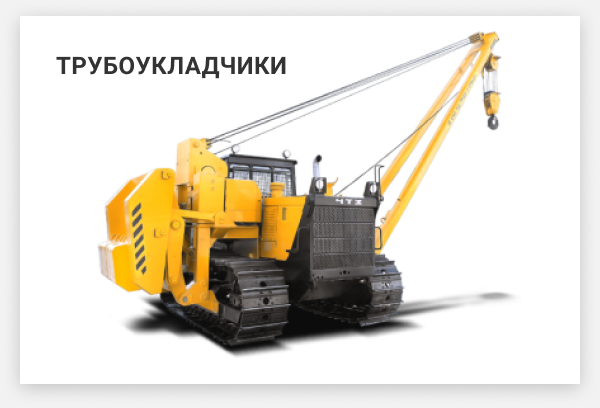
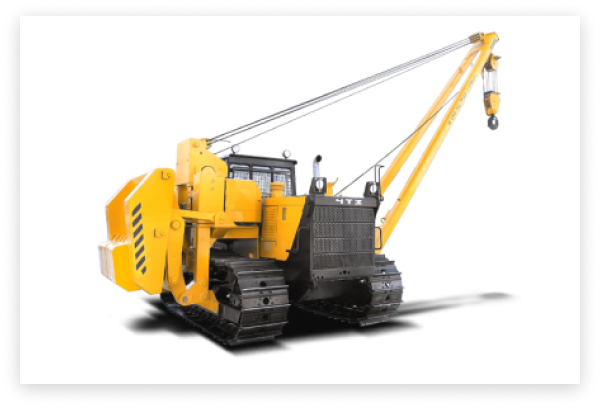
fix catalog tech card

Changed region(s): [[0.09, 0.1176, 0.48, 0.2059]]

diff --git a/src/views/Favourites.vue b/src/views/Favourites.vue
@@ -4,7 +4,8 @@
     <a class="select-all" href="">Удалить все</a>
 
     <div class="favourite-card" v-for="item of cartItems" :key="item.id">
-      <div class="favourite-card-img">{{ item.image }}</div>
+      <img class="favourite-card-img" :src="item.image" alt="" />
+
       <div class="favourite-card-title">{{ item.title }}</div>
       <input
         type="checkbox"
@@ -42,6 +43,8 @@
 <script lang="ts">
 import { Options, Vue } from "vue-class-component";
 import RequestGroupFavoritesModal from "@/components/Forms/RequestGroupFavoritesModal.vue";
+import Tractor from "../assets/image/Tractor.png";
+import Bulldozer from "../assets/image/Bulldozer.png";
 
 @Options({
   components: { RequestGroupFavoritesModal },
@@ -52,13 +55,13 @@ import RequestGroupFavoritesModal from "@/components/Forms/RequestGroupFavorites
         {
           id: 1,
           title: "Трактор МВР-1570",
-          image: "../assets/image/Drill.png",
+          image: Tractor,
           checked: false,
         },
         {
           id: 2,
-          title: "Запасная стрела для подъемника",
-          image: "../assets/image/Drill.png",
+          title: "Бульдозер",
+          image: Bulldozer,
           checked: false,
         },
       ],
@@ -91,8 +94,12 @@ export default class Favourites extends Vue {}
     grid-template-columns: 1fr 2fr 1fr;
     padding: 36px 64px;
     border-bottom: 1px solid #fc0;
+    align-items: center;
     .favourite-card-img {
       text-align: left;
+
+      width: 200px;
+      height: 160px;
     }
     .favourite-card-title {
       text-align: left;

diff --git a/src/components/СatalogTech.vue b/src/components/СatalogTech.vue
@@ -1,22 +1,35 @@
 <template>
   <div class="catalog-main">
-    <CatalogTechCard title="ТРАКТОРА" img="../assets/image/Drill.png" />
-    <CatalogTechCard title="БУРИЛЬНЫЕ МАШИНЫ" img="../assets/image/Three.png" />
-    <CatalogTechCard title="ТРУБОУКЛАДЧИКИ" img="../assets/image/Drill.png" />
-    <CatalogTechCard title="КОПЕРЫ" img="../assets/image/Drill.png" />
-    <CatalogTechCard title="БУЛЬДОЗЕРЫ" img="../assets/image/Drill.png" />
+    <CatalogTechCard title="ТРАКТОРА" :img="Tractor" slug="traktora" />
+    <CatalogTechCard
+      title="БУРИЛЬНЫЕ МАШИНЫ"
+      :img="Drill"
+      slug="burilnaya-mashina"
+    />
+    <CatalogTechCard
+      title="ТРУБОУКЛАДЧИКИ"
+      :img="Three"
+      slug="truboukladchiki"
+    />
+    <CatalogTechCard title="СВАЕБОИ/копры" :img="Piles" slug="svaeboi" />
+    <CatalogTechCard title="БУЛЬДОЗЕРЫ" :img="Bulldozer" slug="buldozery" />
   </div>
 </template>
 <script lang="ts">
 import { Options, Vue } from "vue-class-component";
 import CatalogTechCard from "@/components/CatalogTechCard.vue"; // @ is an alias to /src
+import Tractor from "../assets/image/Tractor.png";
+import Drill from "../assets/image/Drill.png";
+import Three from "../assets/image/Three.png";
+import Piles from "../assets/image/Piles.png";
+import Bulldozer from "../assets/image/Bulldozer.png";
 
 @Options({
   components: {
     CatalogTechCard,
   },
   data() {
-    return {};
+    return { Tractor, Drill, Three, Piles, Bulldozer };
   },
 })
 export default class CatalogTech extends Vue {}

diff --git a/src/components/CatalogTechCard.vue b/src/components/CatalogTechCard.vue
@@ -1,8 +1,8 @@
 <template>
   <router-link to="/techCards" class="menu-link"
     ><div class="catalog-card">
-      <img src="../assets/image/Drill.png" />
-      <h3 class="card-title">{{ title }}</h3>
+      <img class="catalog-cart-img" :src="img" />
+      <h3 class="card-title" :class="slug">{{ title }}</h3>
       <div class="hover-link">
         <a class="link" href="">Каталог</a>
         <img class="arrow" src="../assets/icon/Arrow.svg" alt="" />
@@ -15,22 +15,35 @@ import { Options, Vue } from "vue-class-component";
 
 @Options({
   components: {},
-  props: ["title", "img"],
+  props: ["title", "img", "slug"],
 })
 export default class CatalogTechCard extends Vue {}
 </script>
 <style>
 .catalog-card {
   position: relative;
-
+  .catalog-cart-img {
+    width: 560px;
+    height: 368px;
+  }
   .card-title {
     position: absolute;
     top: 4%;
-    left: 10%;
+
     text-transform: uppercase;
     font-size: 24px;
     font-style: normal;
     font-weight: 700;
+    &.svaeboi,
+    &.buldozery,
+    &.traktora {
+      right: 10%;
+    }
+
+    &.burilnaya-mashina,
+    &.truboukladchiki {
+      left: 10%;
+    }
   }
   .hover-link {
     display: none;

diff --git a/src/components/Advantage.vue b/src/components/Advantage.vue
@@ -66,6 +66,7 @@ export default class Advantage extends Vue {}
 .vertical-line {
   width: 2px;
   height: 556px;
+  margin: 0 8px;
   background-color: #fc0;
   display: flex;
   align-items: center;

diff --git a/src/index.d.ts b/src/index.d.ts
@@ -1,0 +1,1 @@
+declare module "*.png";
